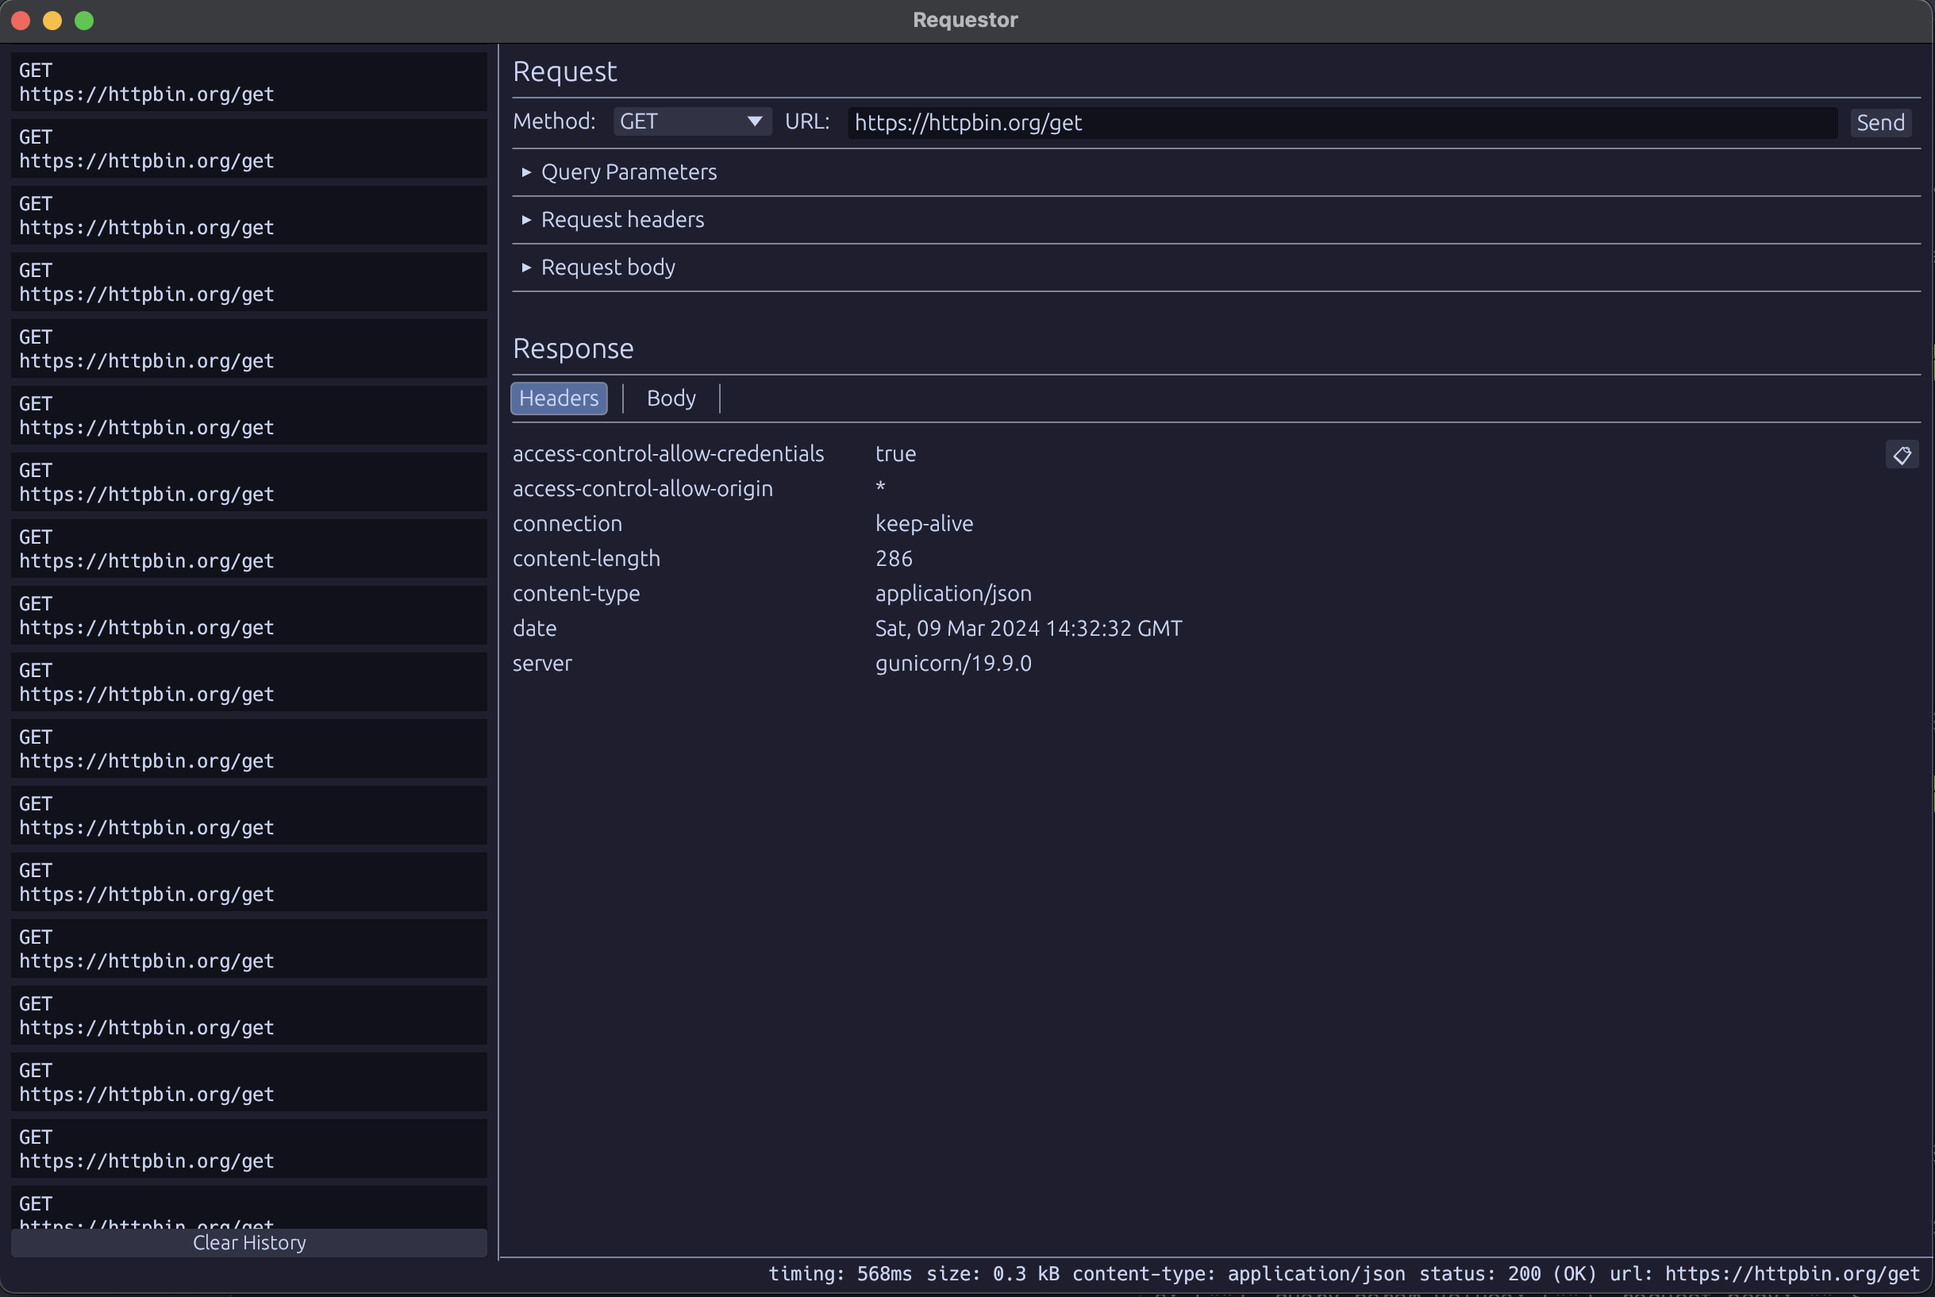
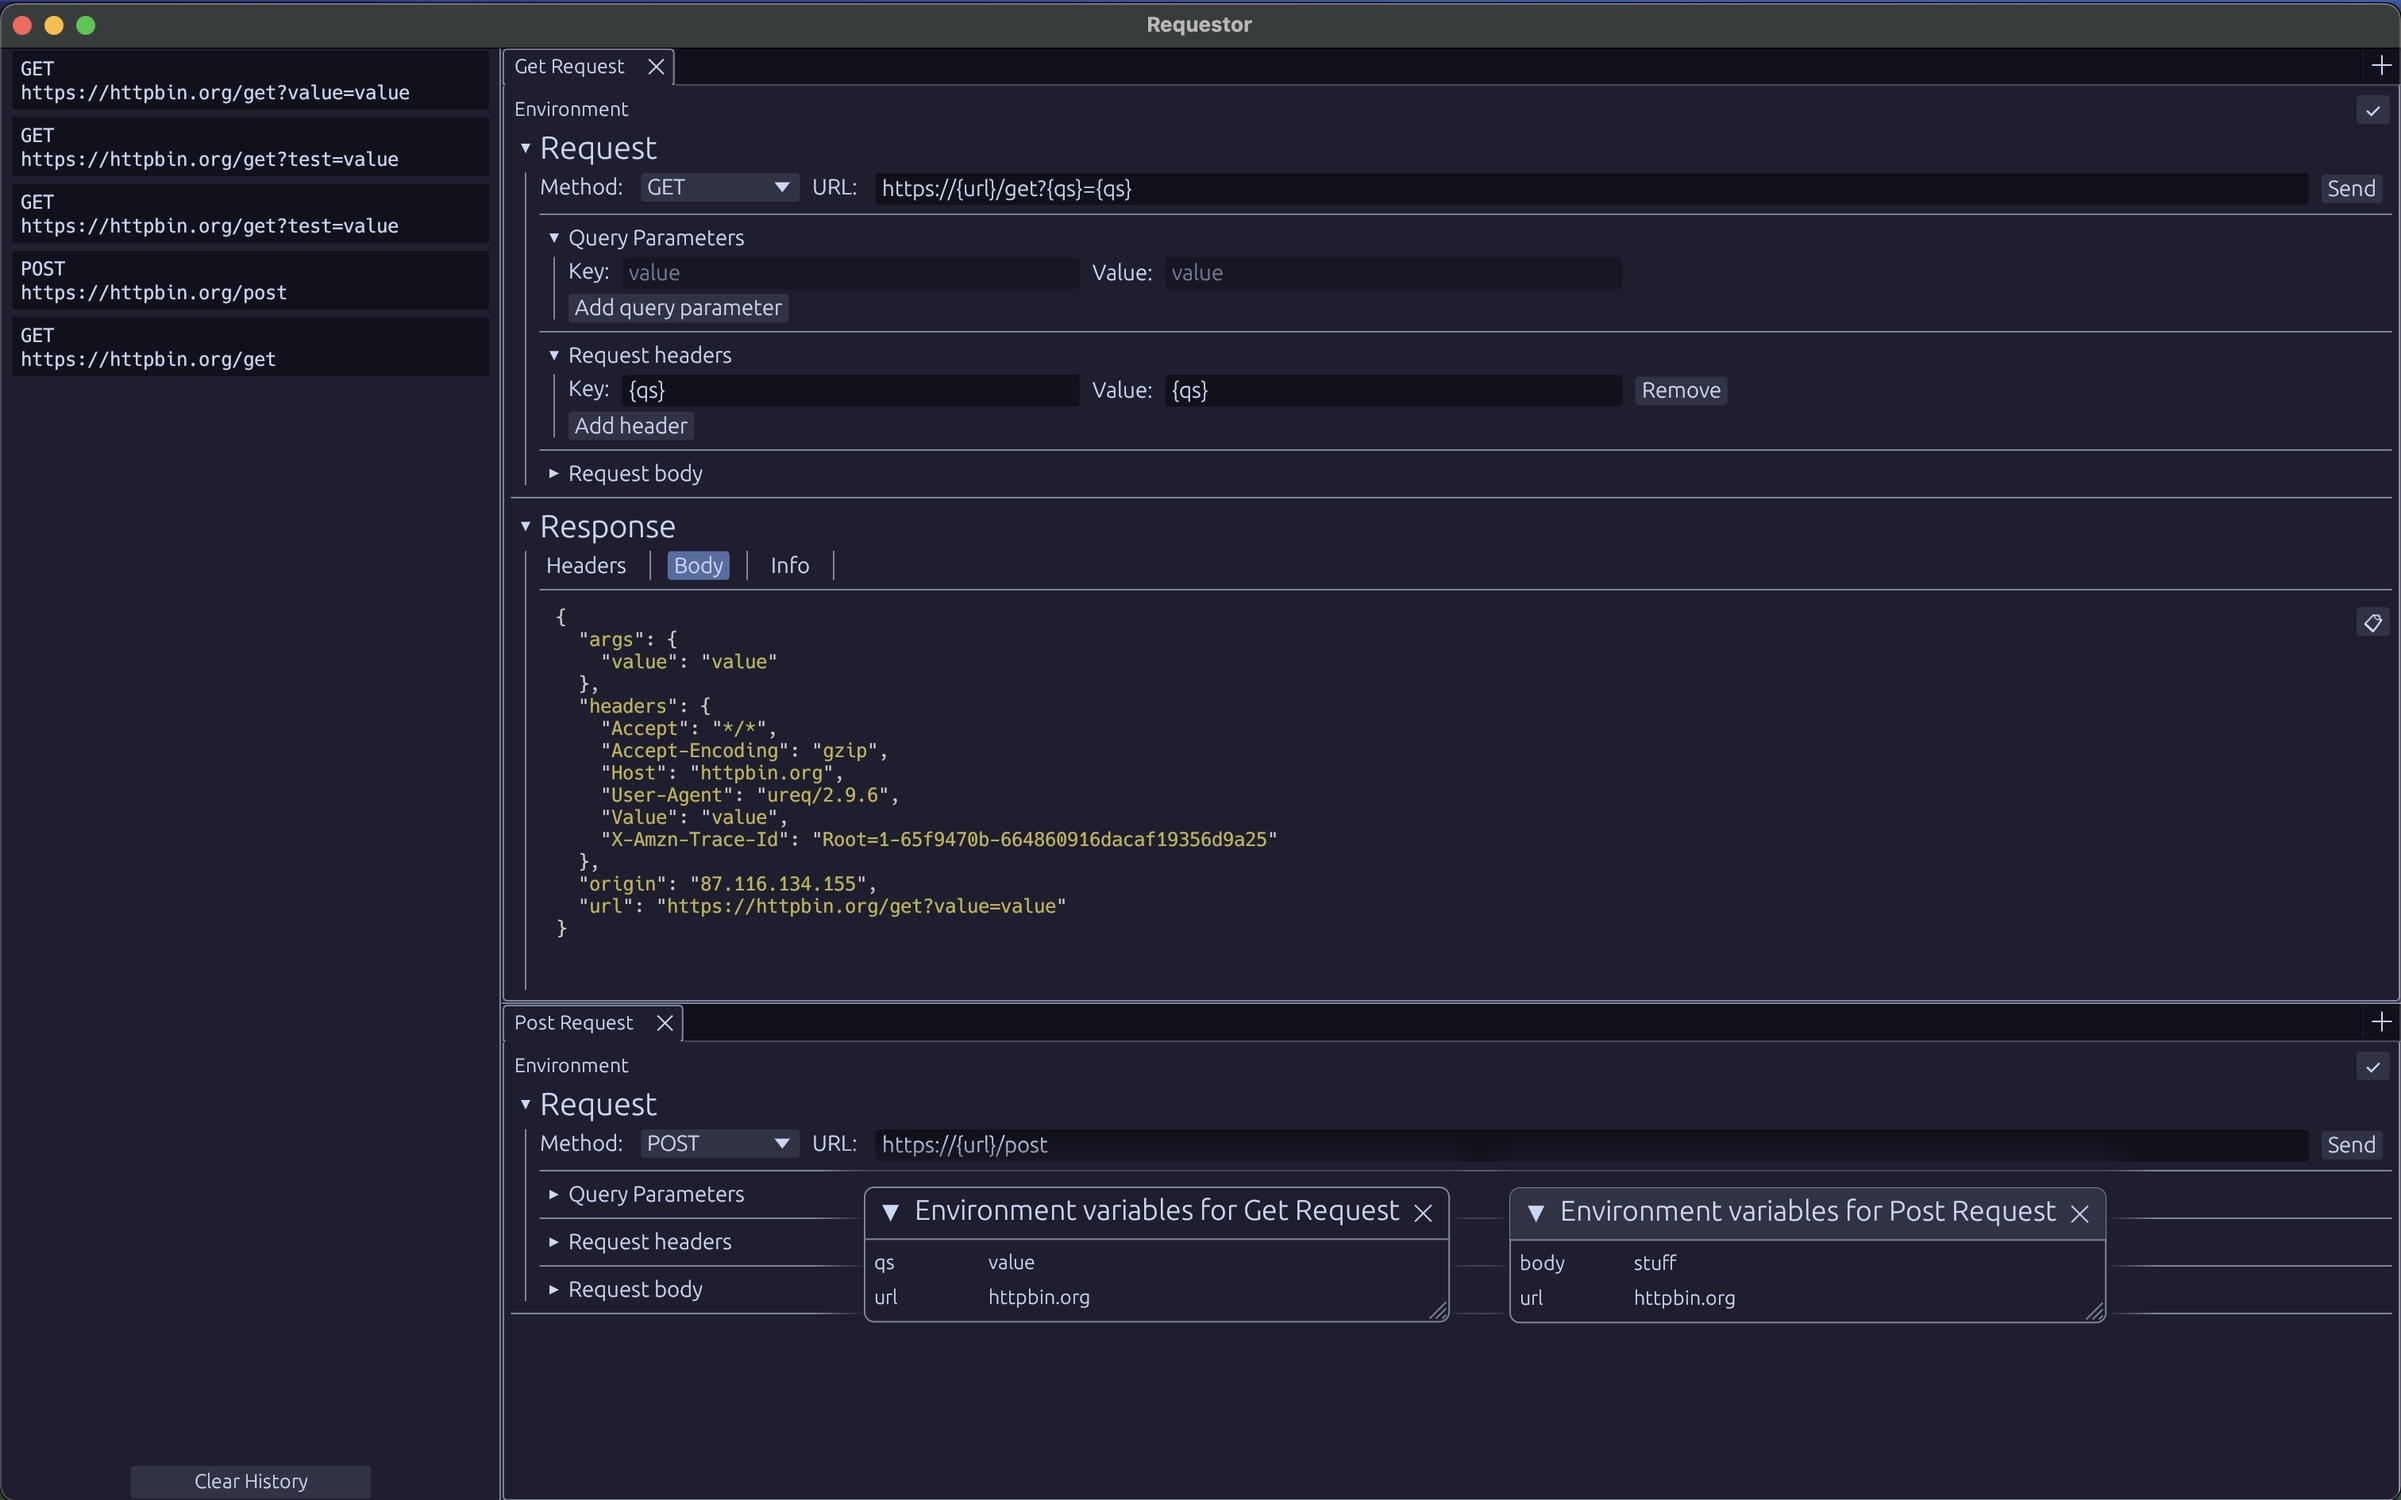
Adds env injection to qs and headers and updates screenshot

diff --git a/src/app/tab_viewer.rs b/src/app/tab_viewer.rs
@@ -208,15 +208,19 @@ impl egui_dock::TabViewer for TabViewer {
                                     Some(v) => v,
                                     None => break,
                                 };
+                                let (injected_key, _err) =
+                                    inject_environment(&val.0.to_string(), &state.environment);
                                 if state.query_param_keys.len() == x {
-                                    state.query_param_keys.insert(x, val.0.to_string())
+                                    state.query_param_keys.insert(x, injected_key)
                                 } else {
-                                    state.query_param_keys[x] = val.0.to_string();
+                                    state.query_param_keys[x] = injected_key;
                                 }
+                                let (injected_val, _err) =
+                                    inject_environment(&val.0.to_string(), &state.environment);
                                 if state.query_param_values.len() == x {
-                                    state.query_param_values.insert(x, val.1.to_string())
+                                    state.query_param_values.insert(x, injected_val)
                                 } else {
-                                    state.query_param_values[x] = val.1.to_string();
+                                    state.query_param_values[x] = injected_val;
                                 }
                                 x += 1;
                             }
@@ -252,10 +256,13 @@ impl egui_dock::TabViewer for TabViewer {
                         if state.request_header_keys[idx].len() == 0 {
                             continue;
                         }
-                        request.headers.insert(
-                            &state.request_header_keys[idx],
+                        let (h_k, _err) =
+                            inject_environment(&state.request_header_keys[idx], &state.environment);
+                        let (h_v, _err) = inject_environment(
                             &state.request_header_values[idx],
+                            &state.environment,
                         );
+                        request.headers.insert(&h_k, &h_v);
                     }
 
                     if (request.method != RequestMethod::GET.to_string()

diff --git a/src/app/environment_injector.rs b/src/app/environment_injector.rs
@@ -12,7 +12,10 @@ pub fn inject_environment(
             Some(value) => {
                 new_str = new_str.replace(&format!("{{{}}}", k), value);
             }
-            None => err = Some("Error parsing value from json".to_owned()),
+            None => {
+                new_str = str.clone();
+                err = Some("Error parsing value from json".to_owned())
+            }
         }
     }
     (new_str, err)
